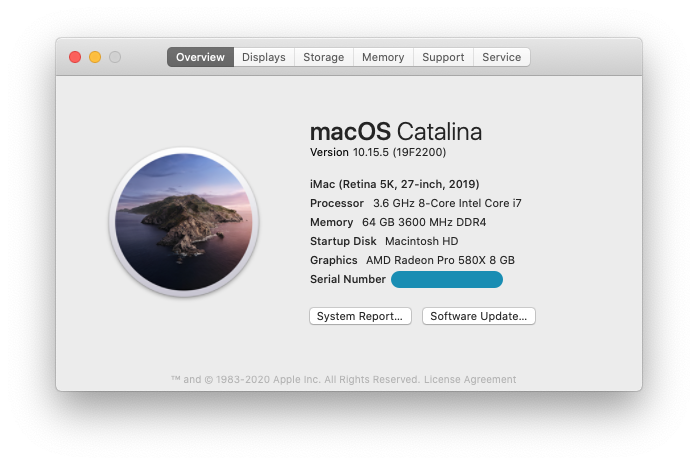
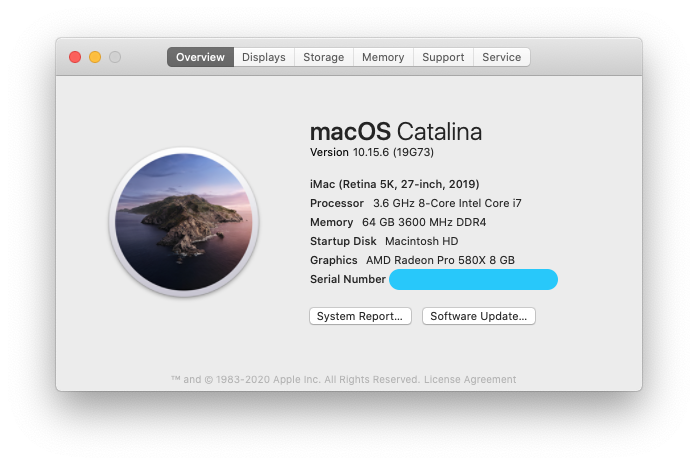
Upgrade 10.15.6 (19G73), release 1.5.0.

Changed region(s): [[0.5415, 0.572, 0.8123, 0.6323], [0.5415, 0.3011, 0.6318, 0.3613]]

diff --git a/README.md b/README.md
@@ -3,7 +3,7 @@
 
 ## Gigabyte Z390M GAMING hackintosh w/ OpenCore
 
-Verified working with macOS version 10.15.5 (19F2200) Catalina
+Verified working with macOS version 10.15.6 (19G73) Catalina
 
 ![System](https://github.com/BenjaminX/Hackintosh-Gigabyte-Z390M-GAMING/blob/master/Tips/About-System.png?raw=true)
 
@@ -14,6 +14,10 @@ Verified working with macOS version 10.15.5 (19F2200) Catalina
 
 
 ## Updates log
+
+Date 2020-07-05 / Version 1.5.0
+
+Upgrade to 10.15.6 (19G73) and verified, but OpenCore 0.6.0 not release,waiting for 1.6.0.
 
 Date 2020-07-05 / Version 1.4.0
 
@@ -125,7 +129,7 @@ Based on F9g version.
 		- AC Back → **Always On**
 		- ErP → **Disabled**
 		- Soft-Off by PWR-BTTN → **Delay 4 Sec.**
-		- Power Loading → **Auto**
+		- Power Loading → **Enabled**
 		- RC6(Render Standby) → **Enabled**
 	- IO Ports
 		- Initial Display Output → **PCIe 1 Slot**
